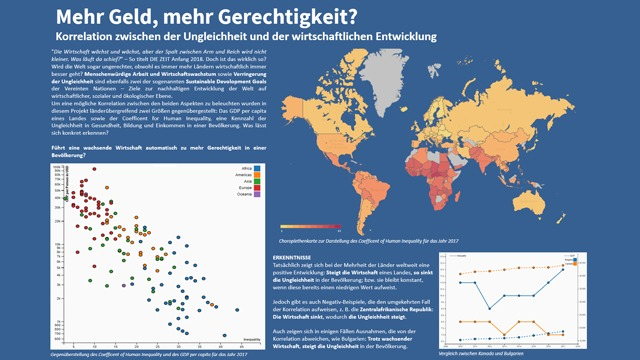
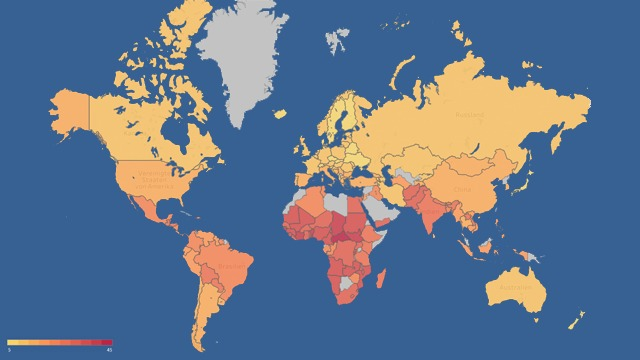
Update

diff --git a/_posts/projects/2019-01-30-inequality.md b/_posts/projects/2019-01-30-inequality.md
@@ -1,6 +1,6 @@
 ---
-layout: page 
-title:  "Mehr Geld, mehr Gerechtigkeit?" 
+layout: page
+title:  "Mehr Geld, mehr Gerechtigkeit?"
 subheadline: Korrelation aus der Ungleichheit und der wirtschaftlichen Entwicklung
 teaser: "Korrelation aus der Ungleichheit und der wirtschaftlichen Entwicklung"
 header: no
@@ -9,15 +9,17 @@ categories:
     - projects
 image:
     title: inequality/key_visual.jpeg
-    caption: Zusammenstellung der Erkenntnisse als Poster für die iExpo
-author: Daniel Kogan, Moritz Mundhenke, Patrick Lowinski-Loh, Stefan Sousa & Tim Schäfer, TODO mit oder ohne?
+    caption: Ungleichheit der Länder global
+author: Daniel Kogan, Moritz Mundhenke, Patrick Lowinski-Loh, Stefan Sousa & Tim Schäfer
 ---
 
 > *Die Wirtschaft wächst und wächst, aber der Spalt zwischen Arm und Reich wird nicht kleiner. Was läuft da schief?* [^fn1]
 
 
-Mit dieser inhaltvollen Schlagzeile macht ein Artikel aus [DIE ZEIT](https://www.zeit.de/index/){:target="_blank"} Anfang 2018 auf eine vermeidlich herrschende Grundproblematik aufmerksam. Doch ist das wirklich so? Wird die Welt immer ungerechter, obwohl es immer mehr Ländern wirtschaftlich immer besser geht?
-Im Rahmen eines studentischen Projekts an der [Hochschule Mannheim](https://www.hs-mannheim.de/){:target="_blank"} wurde dieser Sachverhalt eingehend untersucht. Die folgende Dokumentation soll die Motivation, Grundidee und Durchführung des Projekts genauer beleuchten. Es wird in den kommenden Abschnitten explizit auf die Analyse der erhobenen Daten, die Implementierung des Prototyps, und die daraus gewonnenen Erkenntnissen eingegangen.
+Mit dieser inhaltvollen Schlagzeile macht ein Artikel aus [DIE ZEIT](https://www.zeit.de/index/){:target="_blank"} Anfang 2018 auf eine vermeidlich herrschende
+Grundproblematik aufmerksam. Doch ist das wirklich so? Wird die Welt immer ungerechter, obwohl es immer mehr Ländern wirtschaftlich immer besser geht?
+Im Rahmen eines studentischen Projekts an der [Hochschule Mannheim](https://www.hs-mannheim.de/){:target="_blank"} wurde dieser Sachverhalt eingehend untersucht. Die folgende Dokumentation soll die Motivation,  
+Grundidee und Durchführung des Projekts genauer beleuchten. Es wird in den kommenden Abschnitten explizit auf die Analyse der erhobenen Daten, die Implementierung des Prototyps, und die daraus gewonnenen Erkenntnissen eingegangen.
 
 [^fn1]: [Rudzio, Kolja: Ungleich (17.01.2018)](https://www.zeit.de/2018/04/soziale-ungleichheit-einkommen-wirtschaftswachstum-armut-reichtum)
 
@@ -40,11 +42,14 @@ Im Rahmen eines studentischen Projekts an der [Hochschule Mannheim](https://www.
 
 ## Einführung <a name="einfuehrung"/>
 
-Dieses Projekt ist im Rahmen des Moduls *Grundlagen der Informationsvisualisierung (GDV)* durchgeführt worden. Die Lehrveranstaltung steht allen Studenten eines [Informatik](https://www.informatik.hs-mannheim.de/){:target="_blank"}-Studiengangs als Wahlpflichtfach zur Verfügung. Nach einer Auseinandersetzung mit den Grundkonzepten und Methoden der Informationsvisualisierung ist es in der zweiten Hälfte des Semesters üblich, dass sich die Studierenden in Gruppen mit einem Themengebiet auseinandersetzen und gemeinsam darauf basierend ein Visualisierungsprojekt erarbeiten. Das Thema wird durch den Dozenten Herrn [Prof. Dr. Till Nagel](https://services.informatik.hs-mannheim.de/~nagel/){:target="_blank"} vorgegeben. In diesem  Semester (Wintersemester 2018/2019) bildeten die sogenannten  
-"[Sustainable Development Goals](https://www.un.org/sustainabledevelopment/sustainable-development-goals/){:target="_blank"}" der Vereinten Nationen den Themenschwerpunkt. Dabei handelt es sich um 17 von der UNO definierten Ziele zur nachhaltigen Entwicklung der Welt auf wirtschaftlicher, sozialer und ökologischer Ebene, beispielsweise **Kein Hunger**, **Klimaschutz**, oder **Gute Bildung**.
+Dieses Projekt ist im Rahmen des Moduls *Grundlagen der Informationsvisualisierung (GDV)* durchgeführt worden. Die Lehrveranstaltung steht allen Studenten eines [Informatik](https://www.informatik.hs-mannheim.de/){:target="_blank"}-Studiengangs als Wahlpflichtfach zur Verfügung. Nach einer Auseinandersetzung mit den Grundkonzepten und Methoden der Informationsvisualisierung ist es in der zweiten Hälfte des Semesters üblich, dass sich die Studierenden in Gruppen mit einem Themengebiet  
+auseinandersetzen und gemeinsam darauf basierend ein Visualisierungsprojekt erarbeiten. Das Thema wird durch den Dozenten Herrn [Prof. Dr. Till Nagel](https://services.informatik.hs-mannheim.de/~nagel/){:target="_blank"} vorgegeben. In diesem  
+Semester (Wintersemester 2018/2019) bildeten die sogenannten  
+"[Sustainable Development Goals](https://www.un.org/sustainabledevelopment/sustainable-development-goals/){:target="_blank"}" der Vereinten Nationen den Themenschwerpunkt. Dabei handelt es sich um 17 von der UNO definierten Ziele zur nachhaltigen Entwicklung der Welt auf wirtschaftlicher, sozialer und ökologischer Ebene, beispielsweise **Kein Hunger**,  
+**Klimaschutz**, oder **Gute Bildung**.
 
 <br/>
-  
+
 <figure>
 	<a href="https://www.un.org/sustainabledevelopment/sustainable-development-goals/" target="_blank">
   		<img src="{{ site.urlimg }}/inequality/sustainable_development_goals.png" />
@@ -55,19 +60,27 @@ Dieses Projekt ist im Rahmen des Moduls *Grundlagen der Informationsvisualisieru
 
 
 
-Zu einem oder mehreren dieser SDGs sollen die Studierenden Daten aus verschiedenen Quellen auswählen und diese mit unterschiedlichen Visualisierungstechniken interaktiv sichtbar machen. Weitere Vorgaben waren nicht gegeben. Daher bot die Aufgabenstellung einen enorm großen Spielraum hinsichtlich darauf, welche SDGs ausgewählt und welche möglichen Fragestellungen und Hypothesen durch die Daten überprüft und beleuchtet werden sollen.
+Zu einem oder mehreren dieser SDGs sollen die Studierenden Daten aus verschiedenen Quellen auswählen und diese mit unterschiedlichen Visualisierungstechniken interaktiv sichtbar machen. Weitere Vorgaben waren nicht gegeben. Daher bot die Aufgabenstellung einen enorm großen Spielraum hinsichtlich darauf, welche SDGs ausgewählt und welche möglichen Fragestellungen und Hypothesen durch die Daten überprüft und beleuchtet  
+werden sollen.
 
 
 ## Motivation und Konzept <a name="motivation"/>
-Um dieses weite Themenspektrum systematisch anzugehen, bestand der erste Schritt logischerweise darin, sich mit den einzelnen SDGs auseinanderzusetzen um einen Überblick zu gewinnen. Relativ schnell gab es im Projektteam einen Konsens darüber sich mit einem wirtschaftlichen Thema zu befassen. Insbesondere war der Schwerpunkt "Arm und Reich" von besonderem Interesse, da in den Medien immer wieder die auseinandergehende Schere zwischen Arm und Reich thematisiert wird. Aus diesem Grund wurden die SDGs [Menschenwürdige Arbeit und Wirtschaftswachstum](https://www.un.org/sustainabledevelopment/economic-growth/){:target="_blank"} (Decent work and economic growth, #8) und [Verringerung der Ungleichheit](https://www.un.org/sustainabledevelopment/inequality/){:target="_blank"} (Reduced inequalities, #10) für dieses Projekt ausgewählt. Aus der Überlegung heraus, dass von einer sich entwickelnden und wachsenden Wirtschaft in einem Land die gesamte Bevölkerung davon profitieren sollte, wurden erste Gedanken für eine Hypothese abgeleitet. Parallel dazu wurden erste Ideen und Konzepte für die Endanwendung als Paper-Prototype festgehalten.  
+Um dieses weite Themenspektrum systematisch anzugehen, bestand der erste Schritt  
+logischerweise darin, sich mit den einzelnen SDGs auseinanderzusetzen um einen Überblick zu gewinnen. Relativ schnell gab es im Projektteam einen Konsens darüber sich mit einem wirtschaftlichen Thema zu befassen. Insbesondere war der Schwerpunkt "Arm und Reich" von besonderem Interesse, da in den Medien immer wieder die auseinandergehende Schere zwischen Arm und Reich thematisiert wird. Aus diesem Grund wurden die SDGs [Menschenwürdige Arbeit und Wirtschaftswachstum](https://www.un.org/sustainabledevelopment/economic-growth/){:target="_blank"} (Decent work and economic growth, #8) und [Verringerung der Ungleichheit](https://www.un.org/sustainabledevelopment/inequality/){:target="_blank"} (Reduced inequalities, #10) für dieses Projekt ausgewählt. Aus der Überlegung heraus, dass von einer sich entwickelnden und wachsenden Wirtschaft in einem Land die gesamte Bevölkerung davon profitieren sollte, wurden erste Gedanken für eine Hypothese abgeleitet. Parallel dazu wurden erste Ideen und Konzepte für die  
+Endanwendung als Paper-Prototype festgehalten.  
 
 <figure>
   <img src="{{ site.urlimg }}/inequality/scribble_gdp_growth_inequality.png" />
   <figcaption>Erste Ideen in Form eines Paper-Prototypes</figcaption>
 </figure>
 
-Im weiteren Schritt wurden [Datenquellen](#datenquellen) bezüglich den ausgewählten SDGs recherchiert. Auf der offiziellen Seite des [United Nations Development Programme (UNDP)](http://www.undp.org/){:target="_blank"} werden zahlreiche statistische Datensätze zur Verfügung gestellt, die eine weitere Analyse ermöglichen. Nach einem Vergleich der dort angebotenen Indikatoren und Daten, entschied man sich für den sogenannten [Coefficient for Human Inequality](http://hdr.undp.org/en/content/what-does-coefficient-human-inequality-measure){:target="_blank"}. Dieser bot eine gute Möglichkeit, die Ungleichheit in einer Bevölkerung im zeitlichen Verlauf zu betrachten. Konkret handelt es sich dabei um eine statistische Kennzahl der Ungleichheit einer Bevölkerung in den Bereichen *Gesundheit*, *Einkommen* und *Bildung*. Zusätzlich wurden für diesen Index Werte über mehrere Jahre angeboten, was wie erwähnt eine zeitliche Betrachtung der Ungleichheit in verschiedenen Ländern ermöglicht.
-Demgegenüber wurde eine geeignete Quelle für das wirtschaftliche Wachstum recherchiert. Die Webseite der [World Bank](https://data.worldbank.org/){:target="_blank"} bot hierfür Datensätze zum Wachstum des Bruttoinlandsprodukts pro Kopf (GDP growth per capita) für verschiedene Länder an. Bei der ersten Exploration der Daten wurde der Ansatz jedoch wieder verworfen, da folgende Problemstellung auftrat: Im *Coefficient for Human Inequality* wurde das Wachstum des Pro-Kopf-Einkommens bereits miteinberechnet. Daher wurde im ersten Visualisierungsansatz eine Proportionalität zwischen den beiden Größen im Schaubild erkennbar. Aus diesem Grund wurde für weitere Betrachtungen das **Gross domestic product (GDP) per capita** in absoluten Zahlen genommen, statt des reinen Wachstums. Der Datensatz hierfür konnte erneut auf der Seite des UNDP gefunden werden.
+Im weiteren Schritt wurden [Datenquellen](#datenquellen) bezüglich den ausgewählten SDGs recherchiert. Auf der offiziellen Seite des [United Nations Development Programme (UNDP)](http://www.undp.org/){:target="_blank"} werden zahlreiche statistische Datensätze zur Verfügung gestellt, die eine weitere Analyse  
+ermöglichen. Nach einem Vergleich der dort angebotenen Indikatoren und Daten, entschied man sich für den sogenannten [Coefficient for Human Inequality](http://hdr.undp.org/en/content/what-does-coefficient-human-inequality-measure){:target="_blank"}. Dieser bot eine gute Möglichkeit, die Ungleichheit in einer Bevölkerung im zeitlichen Verlauf zu betrachten. Konkret handelt es sich dabei um eine statistische Kennzahl der Ungleichheit einer Bevölkerung in den Bereichen *Gesundheit*, *Einkommen* und *Bildung*. Zusätzlich wurden für diesen Index Werte über mehrere Jahre angeboten, was wie erwähnt eine zeitliche  
+Betrachtung der Ungleichheit in verschiedenen Ländern ermöglicht.
+Demgegenüber wurde eine geeignete Quelle für das wirtschaftliche Wachstum recherchiert. Die Webseite der [World Bank](https://data.worldbank.org/){:target="_blank"} bot hierfür Datensätze zum Wachstum des Bruttoinlandsprodukts pro Kopf (GDP growth per capita) für verschiedene Länder an. Bei der ersten Exploration der Daten wurde der Ansatz jedoch wieder verworfen, da folgende Problemstellung auftrat:  
+Im *Coefficient for Human Inequality* wurde das Wachstum des Pro-Kopf-Einkommens bereits miteinberechnet. Daher wurde im ersten Visualisierungsansatz eine Proportionalität  
+zwischen den beiden Größen im Schaubild erkennbar. Aus diesem Grund wurde für weitere Betrachtungen das **Gross domestic product (GDP) per capita** in absoluten Zahlen  
+genommen, statt des reinen Wachstums. Der Datensatz hierfür konnte erneut auf der Seite des UNDP gefunden werden.
 
 
 
@@ -81,12 +94,17 @@ Aus den anfänglichen Überlegungen und der Exploration der Datensätze wurden f
 ## Daten<a name="daten"/>
 ### Datenquellen <a name="datenquellen"/>
 
-Im Rahmen des [United Nations Development Programme (UNDP)](http://www.undp.org/){:target="_blank"} veröffentlicht das Human Development Report Office (HDRO) jährliche [Berichte](http://hdr.undp.org/en/){:target="_blank"}, die die menschliche Entwicklung weltweit beschreiben. Diese Daten dienen als Grundlage für politische Diskussionen rund um die menschliche Entwicklung. Das HDRO greift auf unterschiedliche Maßnahmen zurück, um die höchste Qualität der Daten sicherzustellen.  Darunter zählt die regelmäßige Kommunikation mit nationalen und internationalen Statistikämtern. Trotz dieser Zielsetzung weist das HDRO darauf hin, dass einige Probleme mit der Datenqualität bestehen. Diese werden zusammen mit den Daten auf der Webseite veröffentlicht.  
-Für die Hypothese standen zwei Dimensionen der [Human Development Data](http://hdr.undp.org/en/data){:target="_blank"} im Fokus: 
+Im Rahmen des [United Nations Development Programme (UNDP)](http://www.undp.org/){:target="_blank"} veröffentlicht das  
+Human Development Report Office (HDRO) jährliche [Berichte](http://hdr.undp.org/en/){:target="_blank"}, die die menschliche  
+Entwicklung weltweit beschreiben. Diese Daten dienen als Grundlage für politische  
+Diskussionen rund um die menschliche Entwicklung. Das HDRO greift auf unterschiedliche Maßnahmen zurück, um die höchste Qualität der Daten sicherzustellen.  Darunter zählt die regelmäßige Kommunikation mit nationalen und internationalen Statistikämtern. Trotz dieser Zielsetzung weist das HDRO darauf hin, dass einige Probleme mit der Datenqualität bestehen. Diese werden zusammen mit den Daten auf der Webseite veröffentlicht.  
+Für die Hypothese standen zwei Dimensionen der [Human Development Data](http://hdr.undp.org/en/data){:target="_blank"} im Fokus:
 - **Inequality**  
 - **Income/Composition of resources**  
 
-Für die Beschreibung der Ungleichheit in einem Land wurde der **Coefficient of Human Inequality** herangezogen. Diese künstlich berechnete Kennzahl setzt sich aus den Ungleichheiten in den Bereichen *Gesundheit*, *Bildung* und *Einkommen* zusammen. Als Kennzahl für die wirtschaftliche Lage in einem Land wurde auf das Bruttoinlandsprodukt (BIP) pro Einwohner (engl. **Gross domestic product per capita**) zurückgegriffen.[^fn2] Das BIP ist das wichtigste gesamtwirtschaftliche Produktionsmaß und stellt den Wert aller Güter und Dienstleistungen dar, die in einem Jahr innerhalb der Landesgrenzen einer Volkswirtschaft erwirtschaftet wurde.[^fn3] Die Kaufkraftparität (engl. *purchasing power parity, PPP*) dient dazu, Wechselkursschwankungen zu berücksichtigen. [^fn4] [^fn5]
+Für die Beschreibung der Ungleichheit in einem Land wurde der **Coefficient of Human Inequality** herangezogen. Diese künstlich berechnete Kennzahl setzt sich aus den Ungleichheiten in den Bereichen *Gesundheit*, *Bildung* und *Einkommen* zusammen. Als Kennzahl für die wirtschaftliche Lage in einem Land wurde auf das Bruttoinlandsprodukt (BIP) pro Einwohner (engl. **Gross domestic product per capita**) zurückgegriffen.[^fn2] Das BIP ist das  
+wichtigste gesamtwirtschaftliche Produktionsmaß und stellt den Wert aller Güter und  
+Dienstleistungen dar, die in einem Jahr innerhalb der Landesgrenzen einer Volkswirtschaft erwirtschaftet wurde.[^fn3] Die Kaufkraftparität (engl. *purchasing power parity, PPP*) dient dazu, Wechselkursschwankungen zu berücksichtigen. [^fn4] [^fn5]
 
 
 [^fn2]: [Bruttoinlandsprodukt (BIP) pro Kopf](http://www.bpb.de/wissen/72UZFD,0,0,Bruttoinlandsprodukt_(BIP)_pro_Kopf.html)
@@ -100,28 +118,30 @@ Für die Beschreibung der Ungleichheit in einem Land wurde der **Coefficient of 
 
 ### Datenanalyse <a name="datenanalyse"/>
 
-Zu Beginn der Analyse wurden die Daten für *Coefficient of Human Inequality* und *Gross domestic product (GDP) per capita* aus den CSV-Dateien auf Auffälligkeiten exploriert. Erste Auffälligkeit war das ungünstige Format der Daten. Die Daten der einzelnen Länder waren nach Komma als Trennungszeichen separiert. Für die erste Analyse wurde das Format angepasst und eine Trennung nach Spalten vorgenommen. Im neuen Format wurde festgestellt, dass leere Spalten zwischen den Jahren existierten.
+Zu Beginn der Analyse wurden die Daten für *Coefficient of Human Inequality* und  
+*Gross domestic product (GDP) per capita* aus den CSV-Dateien auf Auffälligkeiten exploriert. Erste Auffälligkeit war das ungünstige Format der Daten. Die Daten der einzelnen Länder waren nach Komma als Trennungszeichen separiert. Für die erste Analyse wurde das  
+Format angepasst und eine Trennung nach Spalten vorgenommen. Im neuen Format wurde festgestellt, dass leere Spalten zwischen den Jahren existierten.
 Beim Vergleich beider Datensätze für *Coefficient of Human Inequality* und *Gross domestic product (GDP) per capita* ist aufgefallen, dass die Zeiträume abweichen. Für den Datensatz *Gross domestic product (GDP) per capita* lagen Daten für die Jahre zwischen 1990 und 2017 vor, während beim *Coefficient of Human Inequality* nur die Daten zwischen den Jahren 2010 und 2017 vorhanden waren.
-Eine weitere Erkenntnis aus der Datenanalyse war die Präsenz einiger leerer Felder. Nicht für alle Jahre und für alle Länder lagen Daten vollständig vor. 
-
-
-TODO
-Nach dem Abgleich dieser Datensätze mit den [ISO-Ländercodes](https://www.iso.org/iso-3166-country-codes.html){:target="_blank"} wurde ebenso eine Differenz bei der Anzahl der Länder festgestellt. 
+Eine weitere Erkenntnis aus der Datenanalyse war die Präsenz einiger leerer Felder. Nicht für alle Jahre und für alle Länder lagen Daten vollständig vor.
+Nach dem Abgleich dieser Datensätze mit den [ISO-Ländercodes](https://www.iso.org/iso-3166-country-codes.html){:target="_blank"} wurde ebenso eine Differenz bei der Anzahl der  
+Länder festgestellt.
 Für eine erste Darstellung der Daten wurden die Datensätze mittels [Tableau](https://www.tableau.com/de-de){:target="_blank"} visualisiert, um erste inhaltliche Erkenntnisse zu ziehen.
 
 ### Datenaufbereitung <a name="datenaufbereitung"/>
 
 Im ersten Schritt der Datenaufbereitung wurden überflüssige Spalten aus beiden Datensätzen entfernt. Dazu gehörten die leeren Spalten sowie die Spalte „HDI Rank (2017)“, welche für die Visualisierung keine Verwendung fand.
-Aufgrund der Abweichung der Zeiträume und um eine Gegenüberstellung der Daten zu ermöglichen, wurde ein einheitlicher Zeitraum (2010 bis 2017) festgelegt. Dies hatte zur Folge, dass aus dem Datensatz *Gross domestic product (GDP) per capita* die Jahre 1990, 1995, 2000 und 2005 entfernt wurden.
-Für das Problem mit leeren Feldern musste eine Entscheidung getroffen werden. Die zentrale Frage war, ab wann ein Land nicht weiter berücksichtigt werden soll. Entscheidend war wie viele Jahre zur Verfügung stehen. Bei zu wenigen Daten war es nicht mehr möglich, eine zeitliche Entwicklung darzustellen bzw. Erkenntnisse daraus zu ziehen. Aufgrund dessen wurde folgende Regel definiert: Ein Land wird aussortiert, falls keine Jahre oder weniger als vier Jahre auf einem der Datensätze vorliegen.   
+Aufgrund der Abweichung der Zeiträume und um eine Gegenüberstellung der Daten zu ermöglichen, wurde ein  
+einheitlicher Zeitraum (2010 bis 2017) festgelegt. Dies hatte zur Folge, dass aus dem Datensatz *Gross domestic product (GDP) per capita* die Jahre 1990, 1995, 2000 und 2005 entfernt wurden.
+Für das Problem mit leeren Feldern musste eine Entscheidung getroffen  
+werden. Die zentrale Frage war, ab wann ein Land nicht weiter berücksichtigt werden soll. Entscheidend war wie viele Jahre zur Verfügung stehen. Bei zu wenigen Daten war es nicht mehr möglich, eine zeitliche Entwicklung darzustellen bzw. Erkenntnisse daraus zu ziehen. Aufgrund dessen wurde folgende Regel definiert: Ein Land wird aussortiert, falls keine Jahre oder weniger als vier Jahre auf einem der Datensätze vorliegen.   
 
 ###### Aussortierte Länder (aufgrund mangelnder Daten)
 ---
-<div style="color:red">
+<div style="color:darkred">
 
 •	Algeria
 •	Bahamas
-•	Barbados	
+•	Barbados
 •	China
 •	Eritrea
 •	Djibouti
@@ -143,7 +163,7 @@ Für das Problem mit leeren Feldern musste eine Entscheidung getroffen werden. D
 
 <br/>
 
-Zusätzlich wurden bei großen Lücken (= mehr als 2 fehlenden Jahre) die Randwerte entfernt, da bei der Visualisierung durch ein Liniendiagramm die Ergebnisse verfälscht wären.  
+Zusätzlich wurden bei großen Lücken (= mehr als 2 fehlenden Jahren) die Randwerte entfernt, da bei der Visualisierung durch ein Liniendiagramm die Ergebnisse verfälscht wären.  
 
 <figure>
   <img src="{{ site.urlimg }}/inequality/chart_south_africa_unadjusted.png" />
@@ -160,9 +180,10 @@ Zusätzlich wurden bei großen Lücken (= mehr als 2 fehlenden Jahre) die Randwe
 
 <br/>
 
-Der nächste Schritt bestand im Abgleich der Länder zwischen den Datensätzen *Gross domestic product (GDP) per capita* und *Coefficient of Human Inequality*. Schlussendlich wurden mithilfe von [Tableau Prep](https://www.tableau.com/de-de/products/prep){:target="_blank"} Diskrepanzen identifiziert und bereinigt.    
+Der nächste Schritt bestand im Abgleich der Länder zwischen den Datensätzen  
+*Gross domestic product (GDP) per capita* und *Coefficient of Human Inequality*. Schlussendlich wurden mithilfe von [Tableau Prep](https://www.tableau.com/de-de/products/prep){:target="_blank"} Diskrepanzen identifiziert und bereinigt.    
 
-  
+
 ###### Betrachtete Länder (nach Abgleich)
 ---
 
@@ -322,29 +343,68 @@ Der nächste Schritt bestand im Abgleich der Länder zwischen den Datensätzen *
 
 ## Prototyp <a name="prototyp"/>
 
-*Platzhalter*
+Im Folgenden wird der Prototyp und seine Funktionalität beschrieben. Bei dem Prototypen handelt es sich um eine interaktive Webseite. Die Visualisierungen wurden (mit Ausnahme der Choroplethenkarte) mithilfe von [D3.js](https://d3js.org/){:target="_blank"} in [TypeScript](https://www.typescriptlang.org/){:target="_blank"} umgesetzt. D3.js ist ein Framework für dynamische und interaktive Visualisierungen in Webseiten. Dies wird meist durch SVG, HTML5 und CSS-Standards erreicht. Bei TypeScript handelt es sich um eine Variante von JavaScript und ist daher auch mit D3 kompatibel. Um das Frontend passend  
+anzuordnen wurde [Bootstrap](https://getbootstrap.com/){:target="_blank"} verwendet. Bootstrap ist eines der verbreitesten Frontend-Frameworks und ermöglicht schnelle und optisch ansprechende Lösungen. Es wurden  
+ausschließlich clientseitige Technologien verwendet, wodurch der finale Prototyp auf [GitHub Pages](https://mormundhs-ma.github.io/GDV/) veröffentlicht werden konnte. Dadurch ist die Anwendung öffentlich zugänglich. Der Code des Prototypen ist auf [GitHub](https://github.com/MorMundHS-MA/GDV) zu finden.
 
+##### Scatter Plot
+
+<figure>
+  <img src="{{ site.urlimg }}/inequality/chart_scatterplot.gif" />
+  <figcaption>Übersicht der Länder im zeitlichen Verlauf</figcaption>
+</figure>
+
+
+Das **Streudiagramm** dient dazu das Verhältnis zwischen der wirtschaftlichen Stärke (*GDP pro Kopf*) und der Ungleicheit (*Coefficient for Human Inequality*) als Übersicht der einzelnen Länder zu zeigen. Die Achse des Bruttoinlandsprodukts ist logarithmisch skaliert um eine übersichtlichere Verteilung der Datenpunkte zu erhalten. Die Länder sind farblich nach Kontinenten unterteilt. Länder können zur genaueren Betrachtung ausgewählt werden, wodurch sie im Plot hervorgehoben und im Liniendiagramm dargestellt werden. Mithilfe der Kontinentenlegende können alle Länder eines Kontinents markiert und ausgewählt werden. Diese werden dann auch im neben stehenden Liniendiagramm dargestellt.  
+Eine Animation erlaubt das Betrachten der Verhältnisse im zeitlichen Verlauf.
+
+
+##### Line Charts
+
+<figure>
+  <img src="{{ site.urlimg }}/inequality/chart_line.gif" />
+  <figcaption>Darstellung selektierter Länder</figcaption>
+</figure>
+
+Es sind zwei verschiedene Arten des **Liniendiagramm**s im Prototyp vorhanden. Die erste Art steht in direkter Verbindung zum Scatter Plot und ermöglicht den direkten Vergleich mehrerer Länder. Zusätzlich zu der Coordinated View aus Liniendiagramm und Scatter Plot gibt es eine Übersicht aller Länder jeweils als separates Liniendiagramm. Im Folgenden wird nur auf die Coordinated View eingegangen, da man dadurch die separaten Darstellungen erschließen kann.
+Das Liniendiagramm zeigt den zeitlichen Verlauf des GDP und  
+der Ungleichheit mit jeweils einer Linie. Um diese zu unterscheiden ist die GDP-Linie gestrichelt und die Linie für die Ungleichheit durchgezogen dargestellt.  
+Wenn mehrere Länder ausgewählt sind, werden die beiden Linien nach Land farblich kodiert. Die Achsen des Diagramms werden abhängig von der Auswahl skaliert, da bei einer absoluten Skalierung Wertänderungen nicht erkennbar sind.
+
+
+##### Choropleth Map
+
+<figure>
+  <img src="{{ site.urlimg }}/inequality/choropleth_map.jpg" />
+  <figcaption>Ungleichheit der Länder global</figcaption>
+</figure>
+
+
+Die **Choroplethenkarte** (Weltkarte), welche mit [Tableau](https://www.tableau.com/de-de){:target="_blank"} erstellt wurde, ist als Bilddatei in die Webanwendung miteingebunden. Die Karte ist in einem Info-Menü zu finden und  
+erlaubt eine Übersicht über die Ungleichheit aller Länder. Unter der Karte sind Hyperlinks mit empfohlenen Länderauswahlen zu finden. Diese Hyperlinks verändern das  
+Liniendiagramm im Hintergrund.
 
 ## Fazit <a name="fazit"/>
 
-*Platzhalter*
-
 ### Erkenntnisse <a name="erkenntnisse"/>
-Tatsächlich zeigt sich bei der Mehrheit der Länder weltweit eine positive Entwicklung, was unsere anfängliche Hypothese bestätigt:
-  
+Tatsächlich zeigt sich bei der Mehrheit der Länder weltweit eine <ins>positive Entwicklung</ins>, was unsere anfängliche Hypothese bestätigt:
+
 "*Steigt die Wirtschaft eines Landes, so sinkt die Ungleichheit in der Bevölkerung; bzw. sie bleibt konstant, wenn diese bereits einen niedrigen Wert aufweist.*"      
 
 <figure>
   <img src="{{ site.urlimg }}/inequality/chart_bolivien.png" />
 </figure>
 
-Zudem gibt es auch Beispiele, die den umgekehrten Fall der Korrelation aufweisen, z.B. die Zentralafrikanische Republik: Die Wirtschaft sinkt, wodurch die Ungleichheit steigt.  
+Zudem gibt es auch Beispiele, die den umgekehrten Fall der Korrelation aufweisen,  
+beispielsweise die **Zentralafrikanische Republik**: Die Wirtschaft sinkt, wodurch die  
+Ungleichheit steigt.  
 
 <figure>
   <img src="{{ site.urlimg }}/inequality/chart_central_africa_republic.png" />
 </figure>
 
-Auch zeigen sich in einigen Fällen Ausnahmen, die von der Korrelation abweichen, wie Bulgarien: Trotz wachsender Wirtschaft, steigt die Ungleichheit in der Bevölkerung.  
+Jedoch gibt es vereinzelt Länder, die von der Korrelation abweichen, beispielsweise  
+**Bulgarien**: Trotz wachsender Wirtschaft, steigt die Ungleichheit in der Bevölkerung.  
 
 <figure>
   <img src="{{ site.urlimg }}/inequality/chart_bulgarien.png" />
@@ -361,13 +421,12 @@ Ausgehend vom erhaltenen **Feedback auf der iExpo** ergaben sich die folgenden m
 - Höhere Auflösung der Visualisierungen
 - Auswahl von max. 2 Ländern
 - Start- und Endpunkt der Animation differenziert darstellen
-  
-<br/>
+
 <br/>
 
 ## Credits <a name="credits"/>
-  
-Das Projekt wurde realisiert durch: 
+
+Das Projekt wurde realisiert durch:
 
 - Daniel Kogan
 - Moritz Mundhenke
@@ -375,5 +434,5 @@ Das Projekt wurde realisiert durch:
 - Stefan Sousa
 - Tim Schäfer
 
-Grundlagen der Informationsvisualisierung (GDV), Wintersemester 2018/2019 bei Herrn [Prof. Dr. Till Nagel](https://services.informatik.hs-mannheim.de/~nagel/){:target="_blank"}, Hochschule Mannheim
-
+Grundlagen der Informationsvisualisierung (GDV), Wintersemester 2018/2019 bei  
+Herrn [Prof. Dr. Till Nagel](https://services.informatik.hs-mannheim.de/~nagel/){:target="_blank"}, Hochschule Mannheim
